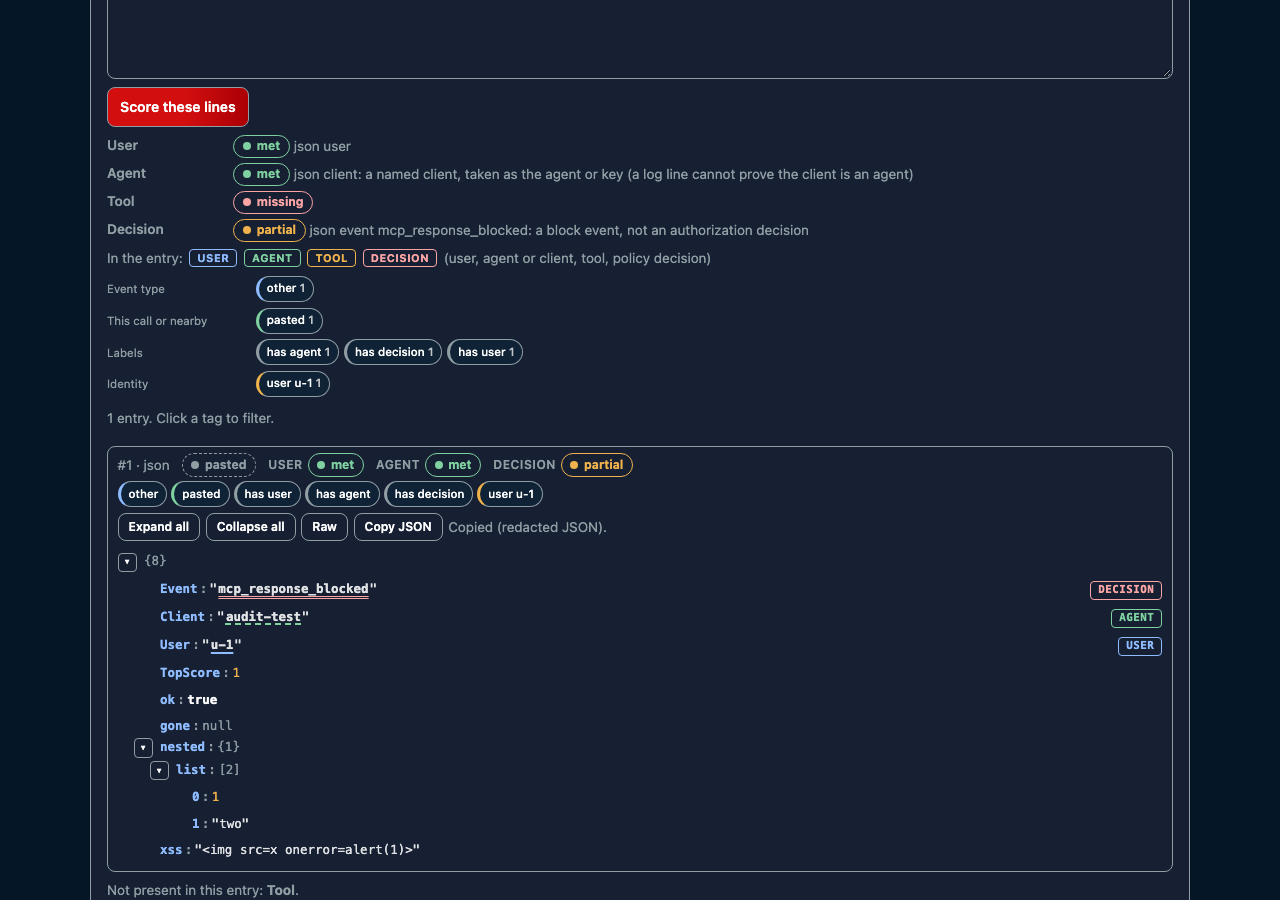
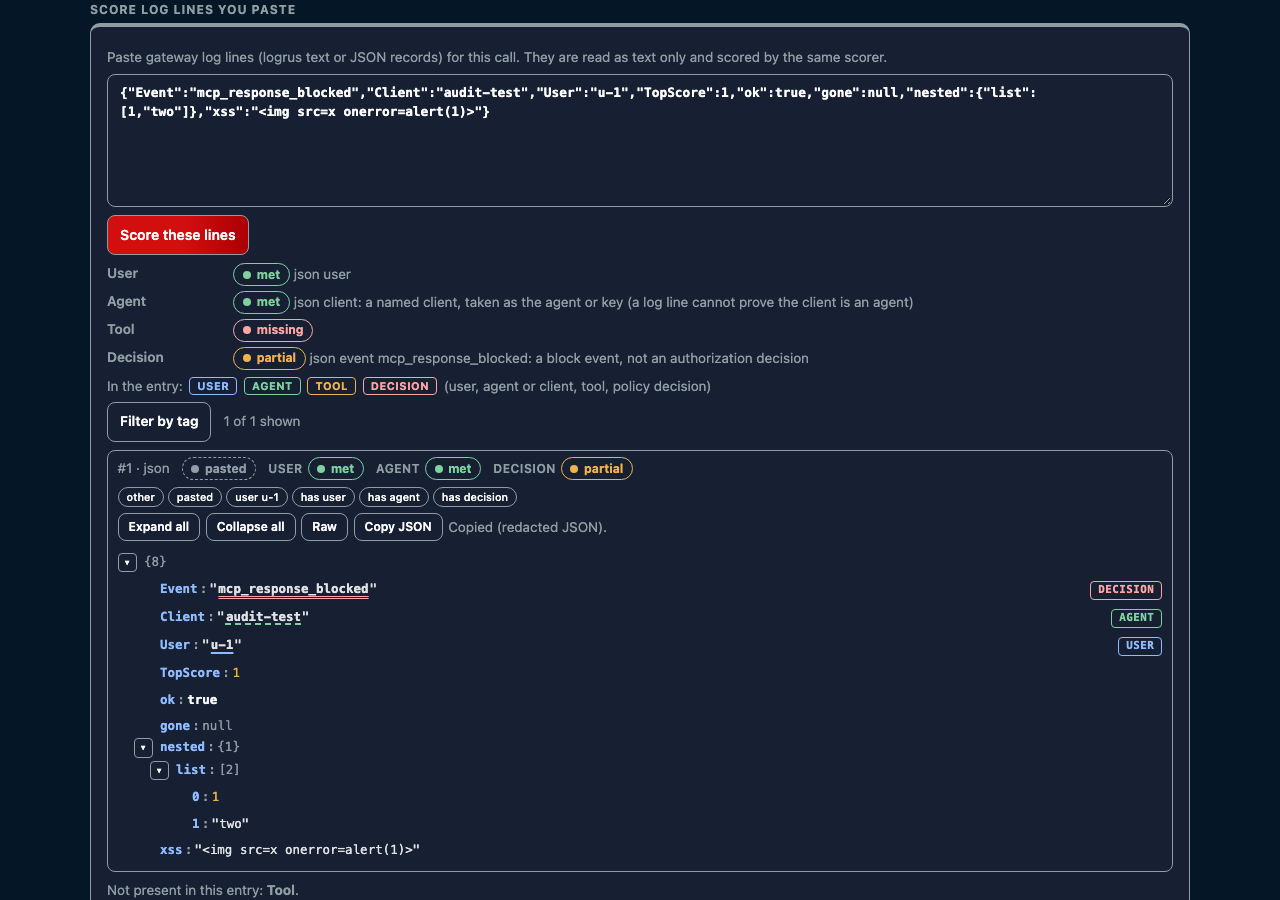
Trace tags styled after the Demo Shelf
Same pattern as demo-shelf-LAB: a Filter by tag toggle with X of Y shown,
a bordered panel of grouped chips (uppercase group labels, label plus
count, a picked chip filled with an accent outline, a chip that would
leave nothing disabled), Clear tags / Hide tags, and up to six small tag
pills per entry then +N more. Counts apply the other groups' selection.
Identity tags now come before the labels so they stay in the first six.

Changed region(s): [[0.0625, 0.0622, 0.8125, 0.56], [0.0625, 0.0, 0.9375, 0.0311]]

diff --git a/web/src/components/LogEntries.jsx b/web/src/components/LogEntries.jsx
@@ -16,33 +16,66 @@ const SHOW = 50;
 const KIND = { runtime: ["ok", "runtime event"], console: ["info", "console event"], unknown: ["neutral", "kind unknown"] };
 const GROUPS = [["type", "Event type"], ["match", "This call or nearby"], ["label", "Labels"], ["identity", "Identity"]];
 
-// Every tag on these entries, grouped, with how many entries carry it. Clicking one filters; clicking again clears it.
+// Styled after the Demo Shelf's tag filter (demo-shelf-LAB): a "Filter by tag" toggle, then a panel of groups with a pill per tag
+// and its count, "X of Y shown", Clear tags / Hide tags. A count is how many entries that tag would leave with every other group's
+// selection applied (within a group, tags add up); a tag that would leave none is disabled unless it is selected.
 function TagFilter({ tagsByEntry, selected, onToggle, onClear, shown, total }) {
-  const counts = new Map();
-  for (const tags of tagsByEntry) for (const t of tags) { const id = tagId(t); const c = counts.get(id) || { t, n: 0 }; c.n += 1; counts.set(id, c); }
+  const [open, setOpen] = useState(false);
+  const all = new Map();
+  for (const tags of tagsByEntry) for (const t of tags) all.set(tagId(t), t);
+  const countFor = (t) => {
+    const others = new Set([...selected].filter((id) => !id.startsWith(`${t.group}:`)));
+    others.add(tagId(t));
+    return tagsByEntry.filter((tags) => matchesAll(tags, others)).length;
+  };
+  const status = <span className="tag-filters__count" role="status" data-testid="tag-filter-count">{shown} of {total} shown</span>;
+  if (!open && selected.size === 0) {
+    return <p className="tag-toggle"><button type="button" aria-expanded="false" onClick={() => setOpen(true)} data-testid="tag-filter-open">Filter by tag</button> {status}</p>;
+  }
   return (
-    <div className="tagfilter" data-testid="tag-filter" role="group" aria-label="Filter entries by tag">
+    <section className="tag-filters" aria-label="Filter entries by tag" data-testid="tag-filter">
       {GROUPS.map(([g, label]) => {
-        const items = [...counts.values()].filter((c) => c.t.group === g).sort((a, b) => b.n - a.n || a.t.value.localeCompare(b.t.value));
+        const items = [...all.values()].filter((t) => t.group === g).map((t) => ({ t, n: countFor(t) })).sort((a, b) => b.n - a.n || a.t.value.localeCompare(b.t.value));
         if (!items.length) return null;
         return (
-          <div key={g} className="tagfilter__group">
-            <span className="muted tagfilter__label">{label}</span>
-            {items.map(({ t, n }) => <TagButton key={tagId(t)} t={t} on={selected.has(tagId(t))} onToggle={onToggle} count={n} testId="filter-tag" />)}
+          <div key={g} role="group" aria-label={label} className="tag-filters__row">
+            <span className="tag-filters__group">{label}</span>
+            {items.map(({ t, n }) => {
+              const on = selected.has(tagId(t));
+              return (
+                <button key={tagId(t)} type="button" className="tag-chip" aria-pressed={on} disabled={!on && n === 0} onClick={() => onToggle(tagId(t))} data-testid="filter-tag" data-tag={tagId(t)}>
+                  {t.value} <small>{n}</small>
+                </button>
+              );
+            })}
           </div>
         );
       })}
-      <p className="muted" data-testid="tag-filter-count">
-        {selected.size ? <>Showing {shown} of {total} entries. <button type="button" onClick={onClear} data-testid="tag-filter-clear">Clear filters</button></> : <>{total} {total === 1 ? "entry" : "entries"}. Click a tag to filter.</>}
-      </p>
-    </div>
+      <div className="tag-filters__bar">
+        {status}
+        {selected.size > 0 && <button type="button" onClick={onClear} data-testid="tag-filter-clear">Clear tags</button>}
+        {selected.size === 0 && <button type="button" aria-expanded="true" onClick={() => setOpen(false)} data-testid="tag-filter-hide">Hide tags</button>}
+      </div>
+    </section>
   );
 }
-const TagButton = ({ t, on, onToggle, count, testId }) => (
-  <button type="button" className={`etag etag--${t.group}${on ? " etag--on" : ""}`} aria-pressed={on ? "true" : "false"} onClick={() => onToggle(tagId(t))} data-testid={testId} data-tag={tagId(t)}>
-    {t.value}{count !== undefined ? <span className="etag__n"> {count}</span> : null}
-  </button>
-);
+
+// The tags on one entry, as the shelf shows tags on a box: small pills (a picked one is filled), at most MAX_PILLS, then "+N more".
+const MAX_PILLS = 6;
+function EntryTags({ tags, selected, onToggle }) {
+  const [more, setMore] = useState(false);
+  const shown = more ? tags : tags.slice(0, MAX_PILLS);
+  return (
+    <ul className="tag-pills" aria-label="Tags" data-testid="entry-tags">
+      {shown.map((t) => (
+        <li key={tagId(t)}>
+          <button type="button" className="tag-pill" aria-pressed={selected.has(tagId(t))} onClick={() => onToggle(tagId(t))} data-testid="entry-tag" data-tag={tagId(t)}>{t.value}</button>
+        </li>
+      ))}
+      {!more && tags.length > MAX_PILLS && <li><button type="button" className="tag-more" onClick={() => setMore(true)} data-testid="entry-tags-more">+{tags.length - MAX_PILLS} more</button></li>}
+    </ul>
+  );
+}
 
 export default function LogEntries({ lines, methods = [], marks = {}, testId = "lines", scored = true, from = "", kinds = [], indices = [] }) {
   const [all, setAll] = useState(false);
@@ -74,7 +107,7 @@ export default function LogEntries({ lines, methods = [], marks = {}, testId = "
                 {word && <Chip kind={kind} testId="entry-method">{word}</Chip>}
                 {fs.map((f) => <span key={f.field} className="ltag"><span className="ltag__name">{FIELD_LABEL[f.field]}</span> <LevelChip level={f.level} /></span>)}
               </div>
-              <div className="entry__tags" data-testid="entry-tags">{tagsByEntry[i].map((t) => <TagButton key={tagId(t)} t={t} on={selected.has(tagId(t))} onToggle={toggle} testId="entry-tag" />)}</div>
+              <EntryTags tags={tagsByEntry[i]} selected={selected} onToggle={toggle} />
               <JsonTree value={parsed[i].value} raw={line} marks={textMarks(i)} label={`Log entry ${i + 1}`} testId={`entry-${i}`} />
             </li>
           );

diff --git a/web/src/app.css b/web/src/app.css
@@ -148,17 +148,20 @@ button[aria-pressed="true"]:hover:not(:disabled), button[aria-selected="true"]:h
    dashed edge. Muted on --surface-2 stays above 4.5:1 in both themes. Override here; standalone-ui.css is vendored. */
 button.primary:disabled { background: var(--surface-2); color: var(--muted); border: 1px dashed var(--muted); opacity: 1; }
 .priv-filters { display: flex; flex-wrap: wrap; gap: 0.6rem; align-items: end; margin: 0.5rem 0; }
-/* Entry tags and the tag filter (Trace): unselected tags keep readable text on surface-2; selected = accent fill. */
-.tagfilter { display: grid; gap: 0.35rem; margin: 0.5rem 0 0.75rem; }
-.tagfilter__group { display: flex; flex-wrap: wrap; align-items: center; gap: 0.3rem; }
-.tagfilter__label { font-size: 0.72rem; min-width: 9rem; }
-.entry__tags { display: flex; flex-wrap: wrap; gap: 0.25rem; margin: 0.3rem 0; }
-.etag { min-height: 26px; font-weight: 500; font-size: 0.72rem; line-height: 1.3; padding: 0.1rem 0.5rem; border-radius: 999px; border: 1px solid var(--border); border-left-width: 3px; background: var(--surface-2); color: var(--text); cursor: pointer; overflow-wrap: anywhere; text-align: left; }
-.etag--type { border-left-color: var(--status-info); } .etag--match { border-left-color: var(--status-ok); }
-.etag--identity { border-left-color: var(--status-warn); } .etag--label { border-left-color: var(--muted); }
-.etag--on { background: var(--accent); color: var(--on-accent); border-color: var(--on-accent-border); }
-.etag__n { opacity: 0.75; }
-.etag:focus-visible { outline: 2px solid var(--accent); outline-offset: 1px; }
+/* Entry tags and the tag filter (Trace), styled after the Demo Shelf (demo-shelf-LAB web/src/styles.css): same sizes, pills and
+   panel. A picked pill is filled by the shared aria-pressed rule in standalone-ui.css, plus the shelf's accent outline. */
+.tag-filters__row { display: flex; flex-wrap: wrap; gap: 8px; align-items: center; }
+.tag-filters { display: grid; gap: 8px; padding: 14px; margin: 0.5rem 0 0.75rem; border: 1px solid var(--border); border-radius: 12px; background: var(--surface); }
+.tag-filters__group { flex: 0 0 11rem; color: var(--muted); font-size: 0.72rem; font-weight: 700; letter-spacing: 0.08em; text-transform: uppercase; }
+.tag-chip { display: inline-flex; gap: 6px; align-items: baseline; min-height: 0; padding: 3px 12px; border-radius: 999px; font-size: 0.8rem; overflow-wrap: anywhere; }
+.tag-chip small { font-weight: 500; }
+.tag-chip[aria-pressed="true"] { outline: 2px solid var(--accent); outline-offset: 1px; }
+.tag-filters__bar { display: flex; gap: 12px; align-items: center; justify-content: space-between; color: var(--muted); font-size: 0.8rem; }
+.tag-toggle { display: flex; gap: 12px; align-items: center; margin: 0.5rem 0; color: var(--muted); font-size: 0.8rem; }
+.tag-pills { display: flex; flex-wrap: wrap; gap: 4px; margin: 0.3rem 0; padding: 0; list-style: none; }
+.tag-pill { min-height: 0; padding: 1px 8px; border-radius: 999px; font-size: 0.68rem; font-weight: 500; overflow-wrap: anywhere; text-align: left; }
+.tag-more { min-height: 0; padding: 1px 8px; border-radius: 999px; border-style: dashed; color: var(--muted); font-size: 0.7rem; font-weight: 500; }
+@media (max-width: 600px) { .tag-filters__group { flex-basis: 100%; } }
 /* The confirm gate inside a case card (single Run): same warning edge as the top-level gate, no nested card. */
 .gate-inline { margin: 0.5rem 0; padding: 0.6rem 0.75rem; border: 1px solid var(--status-warn); border-left-width: 4px; border-radius: 8px; background: var(--surface-2); }
 .gate-inline__title { font-size: 0.95rem; margin: 0 0 0.35rem; }

diff --git a/web/src/App.test.jsx b/web/src/App.test.jsx
@@ -173,17 +173,31 @@ describe("Mock mode", () => {
     const items = () => within(sink).queryAllByTestId("entry-item");
     expect(items()).toHaveLength(3);
     expect(within(items()[0]).getAllByTestId("entry-tag").map((t) => t.getAttribute("data-tag"))).toEqual(expect.arrayContaining(["type:auth", "match:recorded sample", "identity:key audit-test"]));
+    const first = within(items()[0]);
+    expect(first.getAllByTestId("entry-tag")).toHaveLength(6); // at most six pills, then "+N more", like tags on a shelf box
+    await user.click(first.getByTestId("entry-tags-more"));
+    expect(first.getAllByTestId("entry-tag").length).toBeGreaterThan(6);
+    expect(first.queryByTestId("entry-tags-more")).toBeNull();
+    // like the Demo Shelf: collapsed behind "Filter by tag" with "X of Y shown"; counts say what each tag would leave
+    expect(within(sink).getByTestId("tag-filter-count").textContent).toBe("3 of 3 shown");
+    await user.click(within(sink).getByTestId("tag-filter-open"));
     const filterTag = (id) => within(sink).getAllByTestId("filter-tag").find((b) => b.getAttribute("data-tag") === id);
+    expect(filterTag("type:auth").textContent).toBe("auth 1");
     await user.click(filterTag("type:auth"));
     expect(items()).toHaveLength(1);
     expect(filterTag("type:auth")).toHaveAttribute("aria-pressed", "true");
-    expect(within(sink).getByTestId("tag-filter-count").textContent).toMatch(/Showing 1 of 3 entries/);
+    expect(within(sink).getByTestId("tag-filter-count").textContent).toBe("1 of 3 shown");
+    expect(within(items()[0]).getAllByTestId("entry-tag").find((b) => b.getAttribute("data-tag") === "type:auth")).toHaveAttribute("aria-pressed", "true");
     await user.click(filterTag("type:policy"));
     expect(items()).toHaveLength(2);
+    expect(filterTag("identity:key audit-test")).not.toBeDisabled();
     await user.click(filterTag("identity:key audit-test"));
     expect(items()).toHaveLength(1);
+    expect(filterTag("type:policy").textContent).toBe("policy 0"); // with the key picked, policy alone would leave nothing
     await user.click(within(sink).getByTestId("tag-filter-clear"));
     expect(items()).toHaveLength(3);
+    await user.click(within(sink).getByTestId("tag-filter-hide"));
+    expect(within(sink).getByTestId("tag-filter-open")).toBeInTheDocument();
   });
 
   it("Trace says where every log entry came from: a recorded sample names its sink and date, and each entry carries a from chip", async () => {

diff --git a/web/src/lib/entryTags.js b/web/src/lib/entryTags.js
@@ -47,11 +47,12 @@ export function tagsFor(line, { method, kind, from, fields = [] } = {}) {
   const tags = [];
   const types = TYPES.filter(([, re]) => re.test(String(line))).map(([n]) => n);
   for (const n of types.length ? types : ['other']) tags.push({ group: 'type', value: n });
+  // Order = what an entry shows first (at most six pills, then "+N more"): type, match, identity, then the labels.
   if (MATCH[method]) tags.push({ group: 'match', value: MATCH[method] });
+  for (const i of identitiesOf(line)) tags.push({ group: 'identity', value: i });
   if (from) tags.push({ group: 'label', value: `from ${from}` });
   if (KIND[kind]) tags.push({ group: 'label', value: KIND[kind] });
   for (const f of fields) if (FIELD[f]) tags.push({ group: 'label', value: FIELD[f] });
-  for (const i of identitiesOf(line)) tags.push({ group: 'identity', value: i });
   return tags;
 }
 

diff --git a/README.md b/README.md
@@ -61,7 +61,7 @@ The lab then GETs `/api/v1/namespaces/<ns>/pods/<pod>/log?container=<c>&sinceSec
 ## Pages
 
 1. **Run**: use cases grouped MCP, AI Guard, Rejected, Aggregate, A2A, LLM, Intent, a Run button each and Run all. A Run stays on this page (no jump to the Trace): the HTTP and score chips appear on the card, and **Open trace** shows the details.
-2. **Trace**: the request, the response (HTTP and JSON-RPC `isError`), the raw hops, and per-sink panels where **every log entry is a syntax-coloured JSON tree**: logrus text lines (`time`, `level`, `msg`, `file`, then key=value pairs) and JSON records (such as the AI Guard record) are parsed, anything else is one string node, nothing is dropped. Collapse or expand per node (arrow keys, `role=tree`), Expand all / Collapse all, a Raw toggle, Copy JSON (redacted). The user, agent, tool and decision values are badged and underlined in the tree with a legend, each entry is tagged by how it was matched (marker, inferred time window, recorded sample, pasted), and missing fields are listed as "not present in this entry". Every entry also carries clickable **tags** in four groups: event type (auth, policy, routing, MCP request, response filter, guardrail, other, read from the line), this call or nearby (marker match vs time window), labels (source, runtime/console, the requirement fields found) and identity (keys, users, apps and Federated Identities the line names; Privilege RefIDs are decoded to their name). A filter bar above each sink lists every tag with its count: any selected tag within a group, all groups with a selection (auth + policy = either; auth + this call = auth lines from this call); Clear restores. Rendering is React text only (no `innerHTML`), by an iterative walker with depth, node and string caps.
+2. **Trace**: the request, the response (HTTP and JSON-RPC `isError`), the raw hops, and per-sink panels where **every log entry is a syntax-coloured JSON tree**: logrus text lines (`time`, `level`, `msg`, `file`, then key=value pairs) and JSON records (such as the AI Guard record) are parsed, anything else is one string node, nothing is dropped. Collapse or expand per node (arrow keys, `role=tree`), Expand all / Collapse all, a Raw toggle, Copy JSON (redacted). The user, agent, tool and decision values are badged and underlined in the tree with a legend, each entry is tagged by how it was matched (marker, inferred time window, recorded sample, pasted), and missing fields are listed as "not present in this entry". Every entry also carries clickable **tags** in four groups: event type (auth, policy, routing, MCP request, response filter, guardrail, other, read from the line), this call or nearby (marker match vs time window), labels (source, runtime/console, the requirement fields found) and identity (keys, users, apps and Federated Identities the line names; Privilege RefIDs are decoded to their name). Styled after the Demo Shelf: each entry shows up to six tag pills ("+N more" opens the rest), and **Filter by tag** above each sink opens a panel of grouped tag chips with counts (what each tag would leave with the other groups applied; a tag that would leave nothing is disabled), "X of Y shown", Clear tags and Hide tags. Matching: any selected tag within a group, all groups with a selection (auth + policy = either; auth + this call = auth lines from this call); Clear restores. Rendering is React text only (no `innerHTML`), by an iterative walker with depth, node and string caps.
 3. **Scorecard**: use cases by the four clauses with met / partial / missing / n/a chips and the note. **Copy as Markdown table** for a customer email.
 4. **Where it's logged**: the five sinks, what each held for the cases it was read for (two were never read: UNVERIFIED), and an honest "what we cannot see" list.
 5. **Diagram**: one ReactFlow diagram per flow, caller to Privilege gateway to backend with the sinks hanging off the gateway. Drawn from `diagram-studio/1` data (`server/diagrams/*.json`, built from the capture), movable boxes, Simulate, speed control, Reset restores positions.

diff --git a/CHANGELOG.md b/CHANGELOG.md
@@ -5,6 +5,7 @@
 - Trace: every log entry has clickable tags (event type, this call or nearby, labels, identity) and each sink has a tag filter with counts.
 - Run stays on the Run page: the result shows on the card and focus goes back to that Run button; Open trace is a separate click. Look for entries works the same way.
 - Real: the confirm before the first send opens inside the case card you ran (Send button there), so the page no longer jumps to the top. Run all and the Privilege page keep the top-of-page confirm.
+- Trace tags restyled after the Demo Shelf: Filter by tag toggle, grouped chip panel with counts and disabled zero chips, X of Y shown, Clear tags / Hide tags, six pills per entry then +N more.
 - Getting back from a Trace: a Back to Run button on the Trace page, and the browser Back button works (page changes are history entries now). Either way the Run page comes back with the case you opened in view and its Open trace button focused.
 
 ## Unreleased (workload token)
